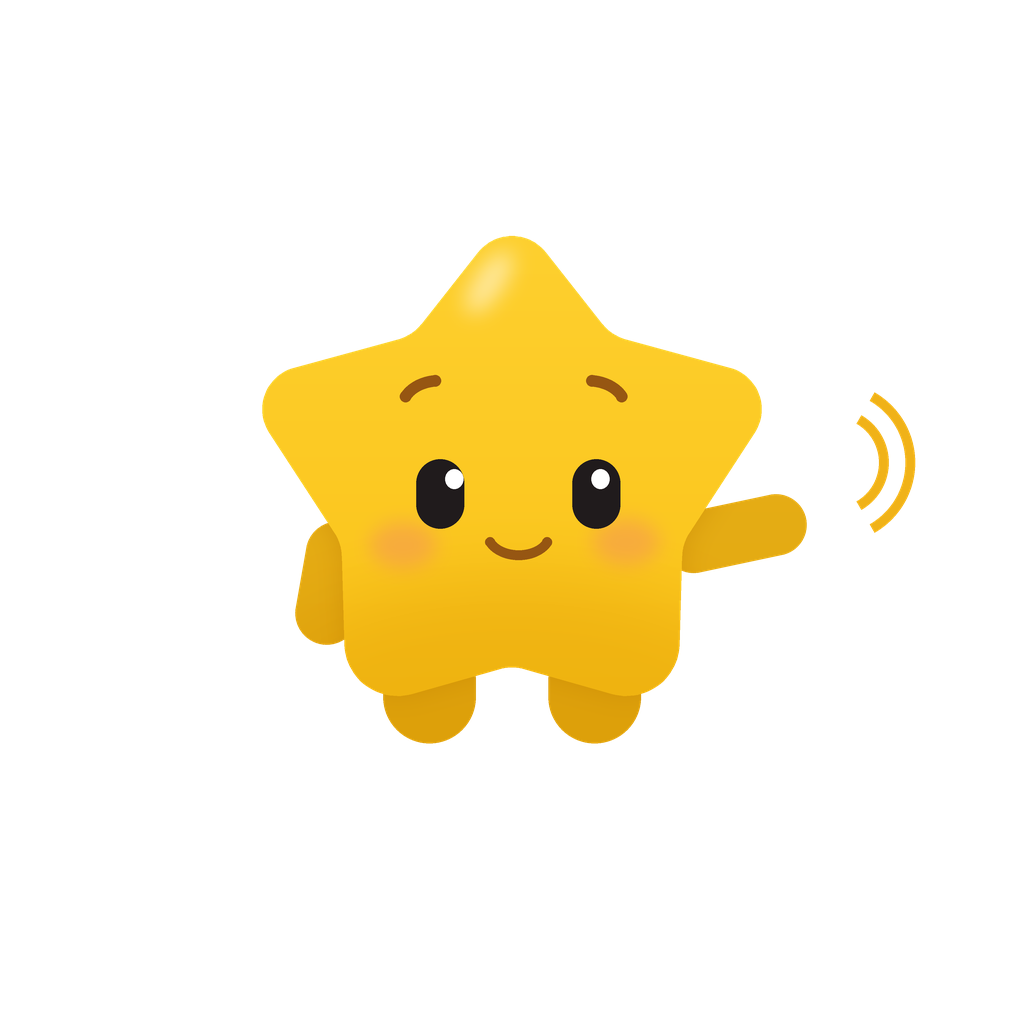
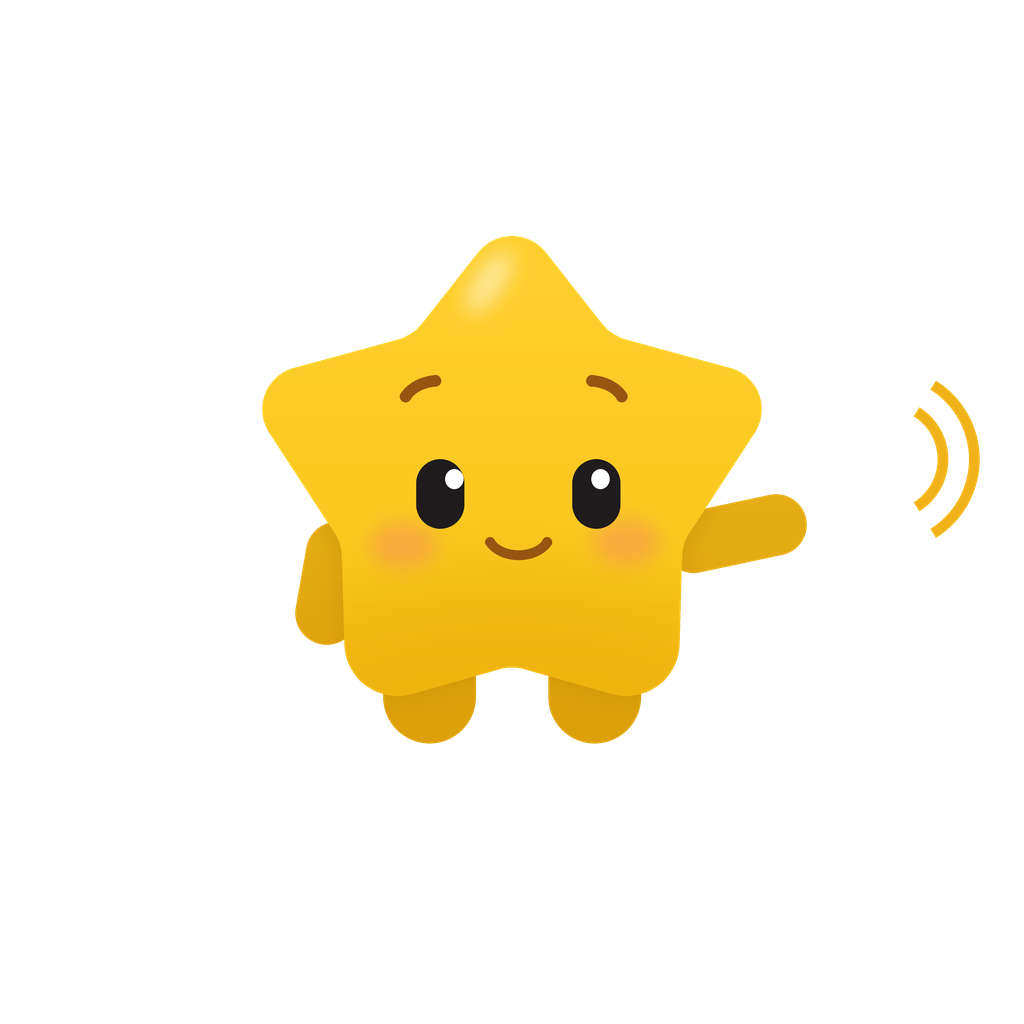
Tune the onboarding and exercise scenes (8-14)
The standalone question mark did not join up — arc, tail and dot are now
one shape, matching the bubble version. The held heart covered the mouth,
so it sits lower and smaller with the arms wrapping it. exercise-1 crosses
its arms instead of only frowning, the notepad no longer reaches the eyes,
ex2 gets a second smaller tear, and the pointing arm is longer with its
motion arcs moved clear of it.

Claude-Session: https://claude.ai/code/session_015M4W5mwAC7ThVprora4HqH

Changed region(s): [[0.8438, 0.375, 0.9688, 0.5312]]

diff --git a/scenes.py b/scenes.py
@@ -166,9 +166,9 @@ def mat(img):
 def big_question(img):
     """Крупный знак вопроса у головы."""
     lay, d = layer(img)
-    cs.stroke_arc(d, [852, 176, 1012, 336], 175, 20, ACCENT, 26)
-    d.line(sbox([1000, 288, 936, 366]), fill=ACCENT + (255,), width=int(s(26)))
-    d.ellipse(sbox([916, 398, 964, 446]), fill=ACCENT + (255,))
+    cs.stroke_arc(d, [872, 168, 1032, 328], 175, 20, ACCENT, 30)
+    d.line(sbox([1016, 268, 952, 340]), fill=ACCENT + (255,), width=int(s(30)))
+    d.ellipse(sbox([924, 374, 984, 434]), fill=ACCENT + (255,))
     img.alpha_composite(lay)
 
 
@@ -286,15 +286,15 @@ def pillow(img):
 def notepad(img):
     """Блокнот с карандашом в руках."""
     lay, d = layer(img)
-    d.rounded_rectangle(sbox([446, 630, 780, 878]), radius=s(24),
+    d.rounded_rectangle(sbox([456, 686, 774, 908]), radius=s(24),
                         fill=PAPER + (255,))
-    d.rounded_rectangle(sbox([446, 630, 496, 878]), radius=s(24),
+    d.rounded_rectangle(sbox([456, 686, 508, 908]), radius=s(24),
                         fill=ACCENT + (255,))
-    for i in range(5):
-        d.line(sbox([524, 690 + i * 40, 748, 690 + i * 40]),
-               fill=PAPER_LINE + (255,), width=int(s(9)))
-    d.line(sbox([806, 604, 742, 752]), fill=WOOD + (255,), width=int(s(22)))
-    d.polygon([*sbox([736, 744]), *sbox([760, 756]), *sbox([734, 776])],
+    for i in range(4):
+        d.line(sbox([538, 744 + i * 44, 744, 744 + i * 44]),
+               fill=PAPER_LINE + (255,), width=int(s(10)))
+    d.line(sbox([846, 630, 768, 784]), fill=WOOD + (255,), width=int(s(26)))
+    d.polygon([*sbox([760, 774]), *sbox([788, 788]), *sbox([758, 812])],
               fill=(60, 60, 70, 255))
     img.alpha_composite(lay)
 
@@ -329,8 +329,8 @@ def letter(img):
 def big_heart(img):
     """Большое сердце в руках."""
     lay, d = layer(img)
-    heart(d, 620, 726, 300, RED)
-    heart(d, 566, 676, 78, (255, 178, 186))
+    heart(d, 620, 792, 268, RED)
+    heart(d, 568, 754, 76, (255, 178, 186))
     img.alpha_composite(lay)
 
 
@@ -378,9 +378,9 @@ def clap_lines(img):
 def point_lines(img):
     """Штрихи у указывающей руки."""
     lay, d = layer(img)
-    for r in (66, 98):
-        d.arc(sbox([1010 - r, 560 - r, 1010 + r, 560 + r]), 300, 60,
-              fill=cs.MOTION + (255,), width=int(s(12)))
+    for r in (74, 112):
+        d.arc(sbox([1074 - r, 556 - r, 1074 + r, 556 + r]), 302, 58,
+              fill=cs.MOTION + (255,), width=int(s(13)))
     img.alpha_composite(lay)
 
 
@@ -421,7 +421,7 @@ SCENES: dict[str, dict] = {
                 back=[hearts_around], front=[big_heart]),
 
     # упражнения
-    "exercise-1": dict(pose="idle", face=F(brows="angry", mouth="sad"),
+    "exercise-1": dict(pose="hug", face=F(brows="angry", mouth="sad"),
                        title="Упражнение: сердится"),
     "ex1": dict(pose="hold", face=F(mouth="smile"), title="С блокнотом",
                 front=[notepad]),

diff --git a/cute_star.py b/cute_star.py
@@ -468,9 +468,12 @@ def draw_props(img: Image.Image, props) -> None:
                        fill=MOTION + (255,), width=int(s(11)), joint="curve")
                 size = k
         elif prop == "tear":
-            d.ellipse(sbox([742, 664, 786, 726]), fill=TEAR + (235,))
-            d.polygon([*sbox([742, 690]), *sbox([786, 690]),
-                       *sbox([764, 638])], fill=TEAR + (235,))
+            for tx, ty, k in ((764, 682, 1.0), (486, 726, 0.72)):
+                rx, ry = 22 * k, 31 * k
+                d.ellipse(sbox([tx - rx, ty - ry, tx + rx, ty + ry]),
+                          fill=TEAR + (235,))
+                d.polygon([*sbox([tx - rx, ty]), *sbox([tx + rx, ty]),
+                           *sbox([tx, ty - 52 * k])], fill=TEAR + (235,))
         elif prop == "question":
             stroke_arc(d, [846, 236, 946, 336], 175, 20, MOTION, 15)
             d.line(sbox([939, 303, 900, 352]), fill=MOTION + (255,),
